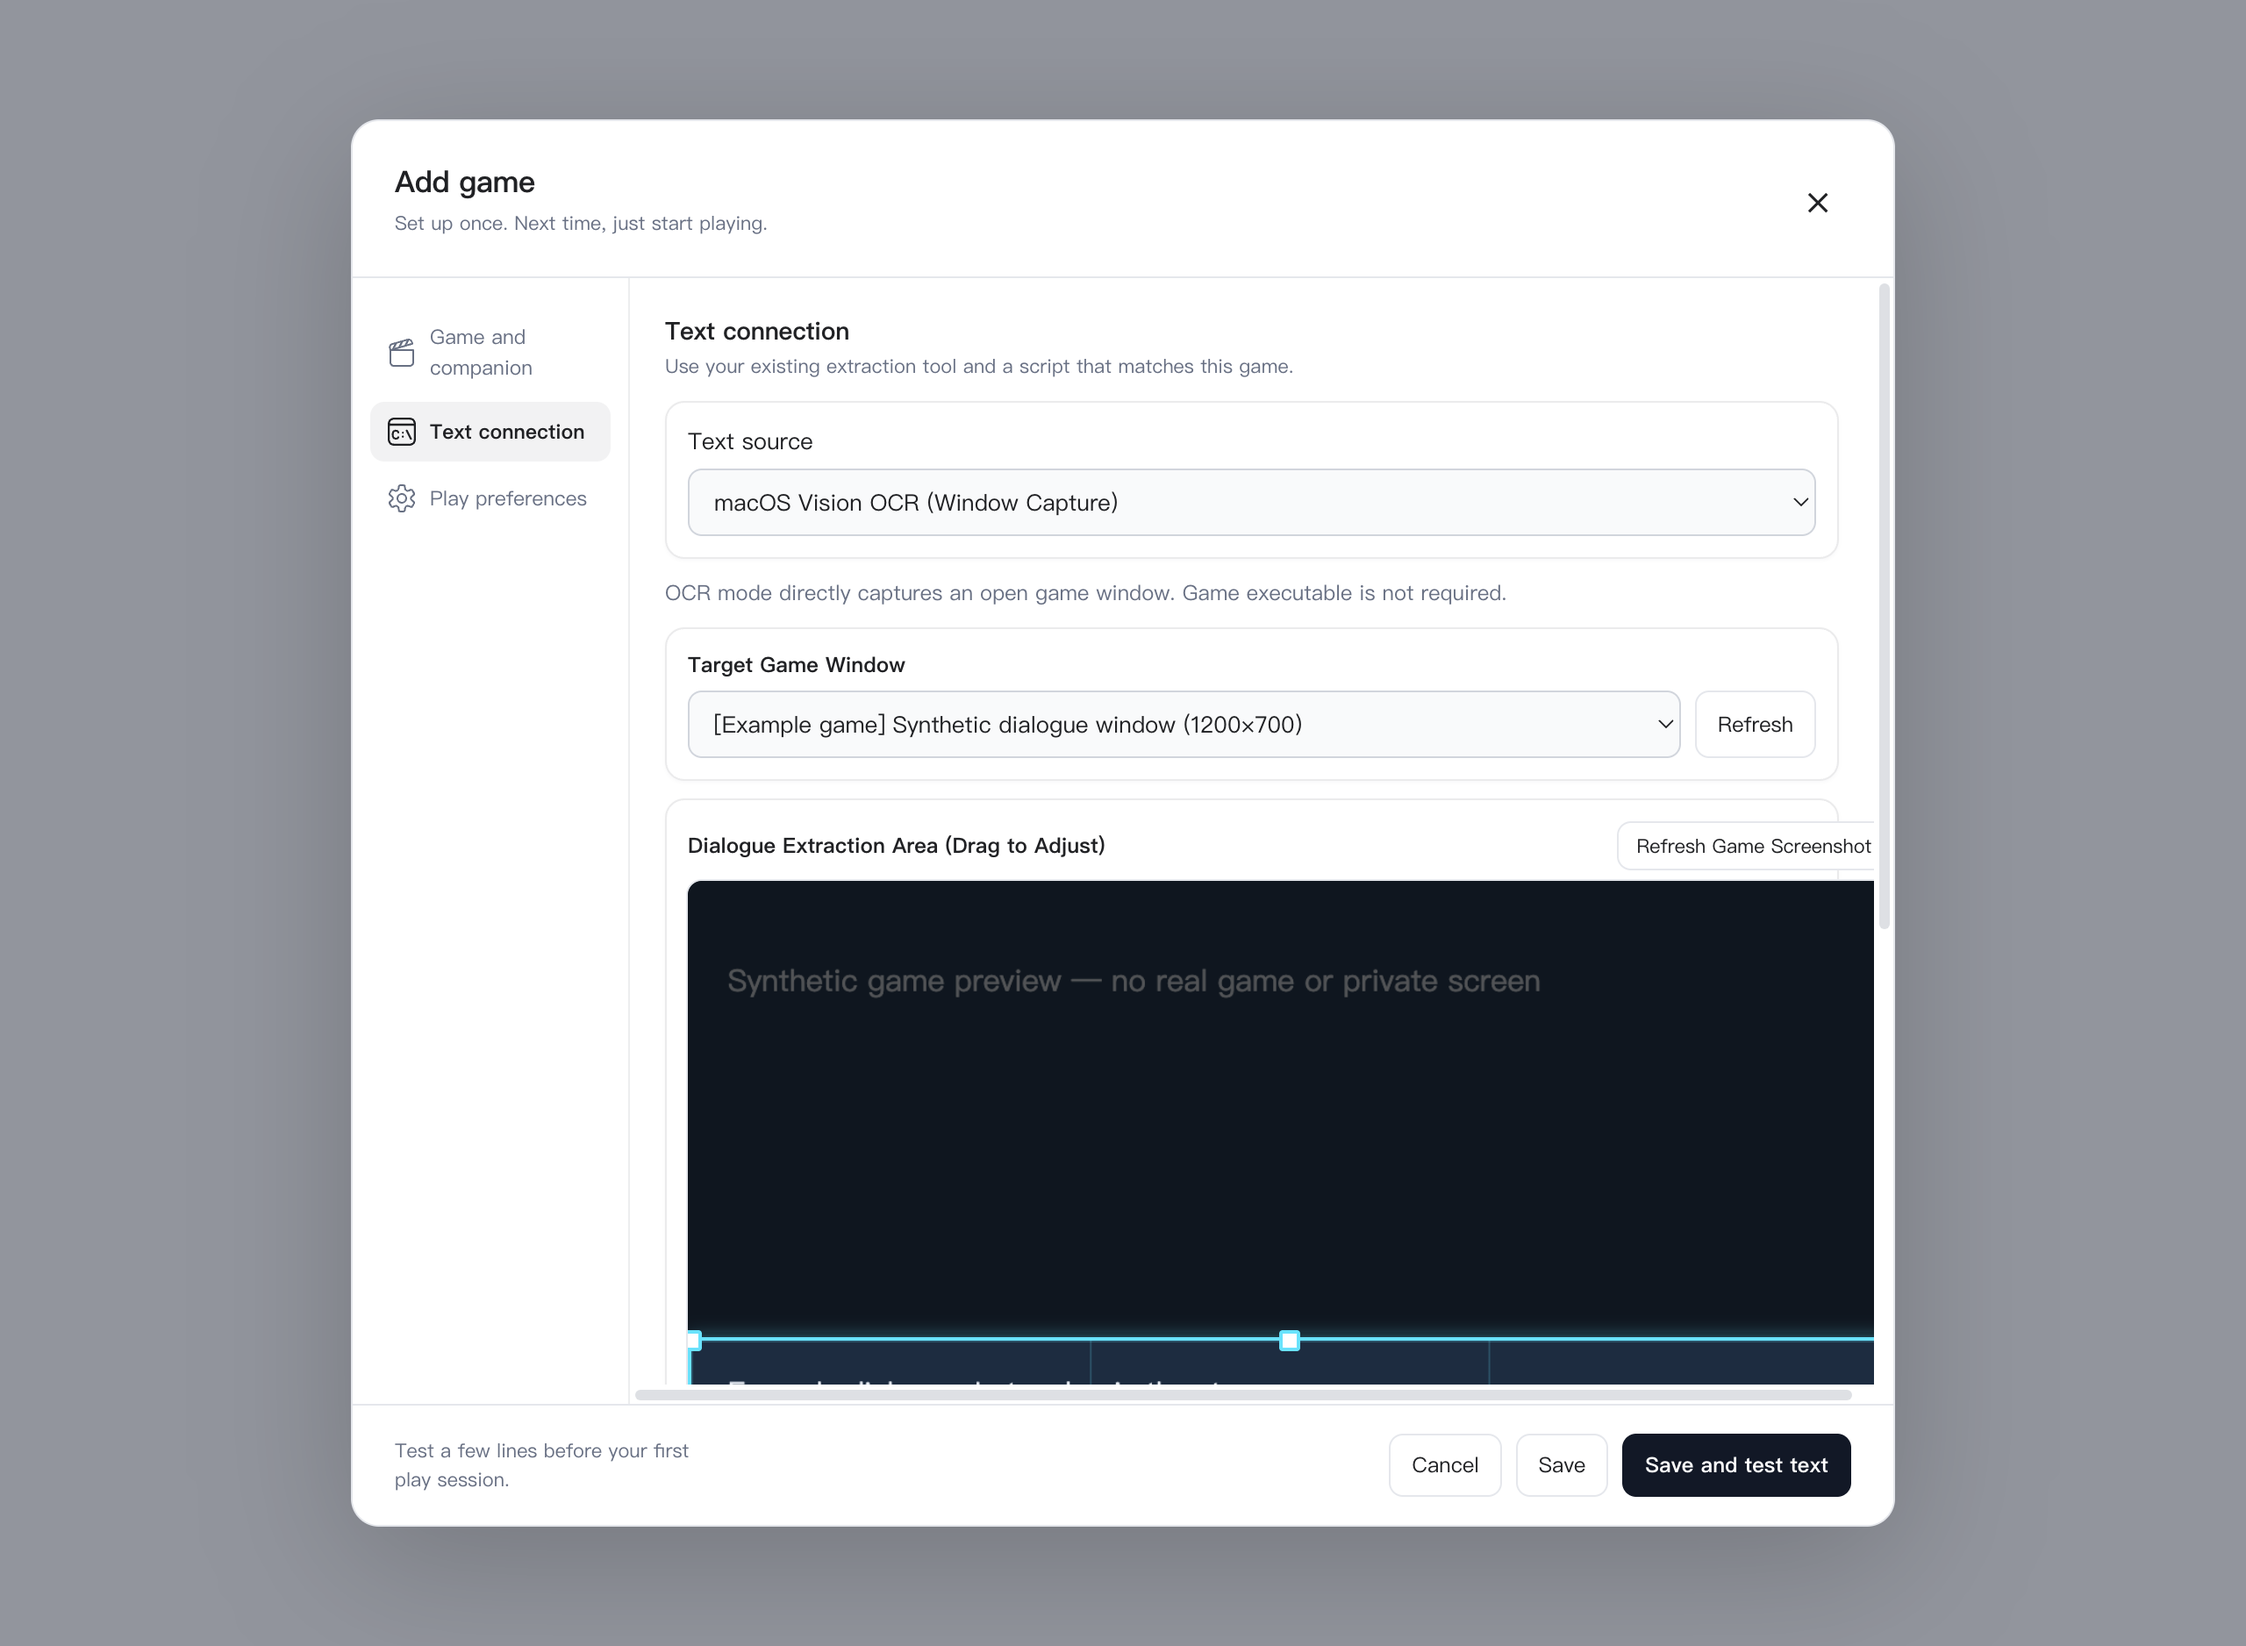
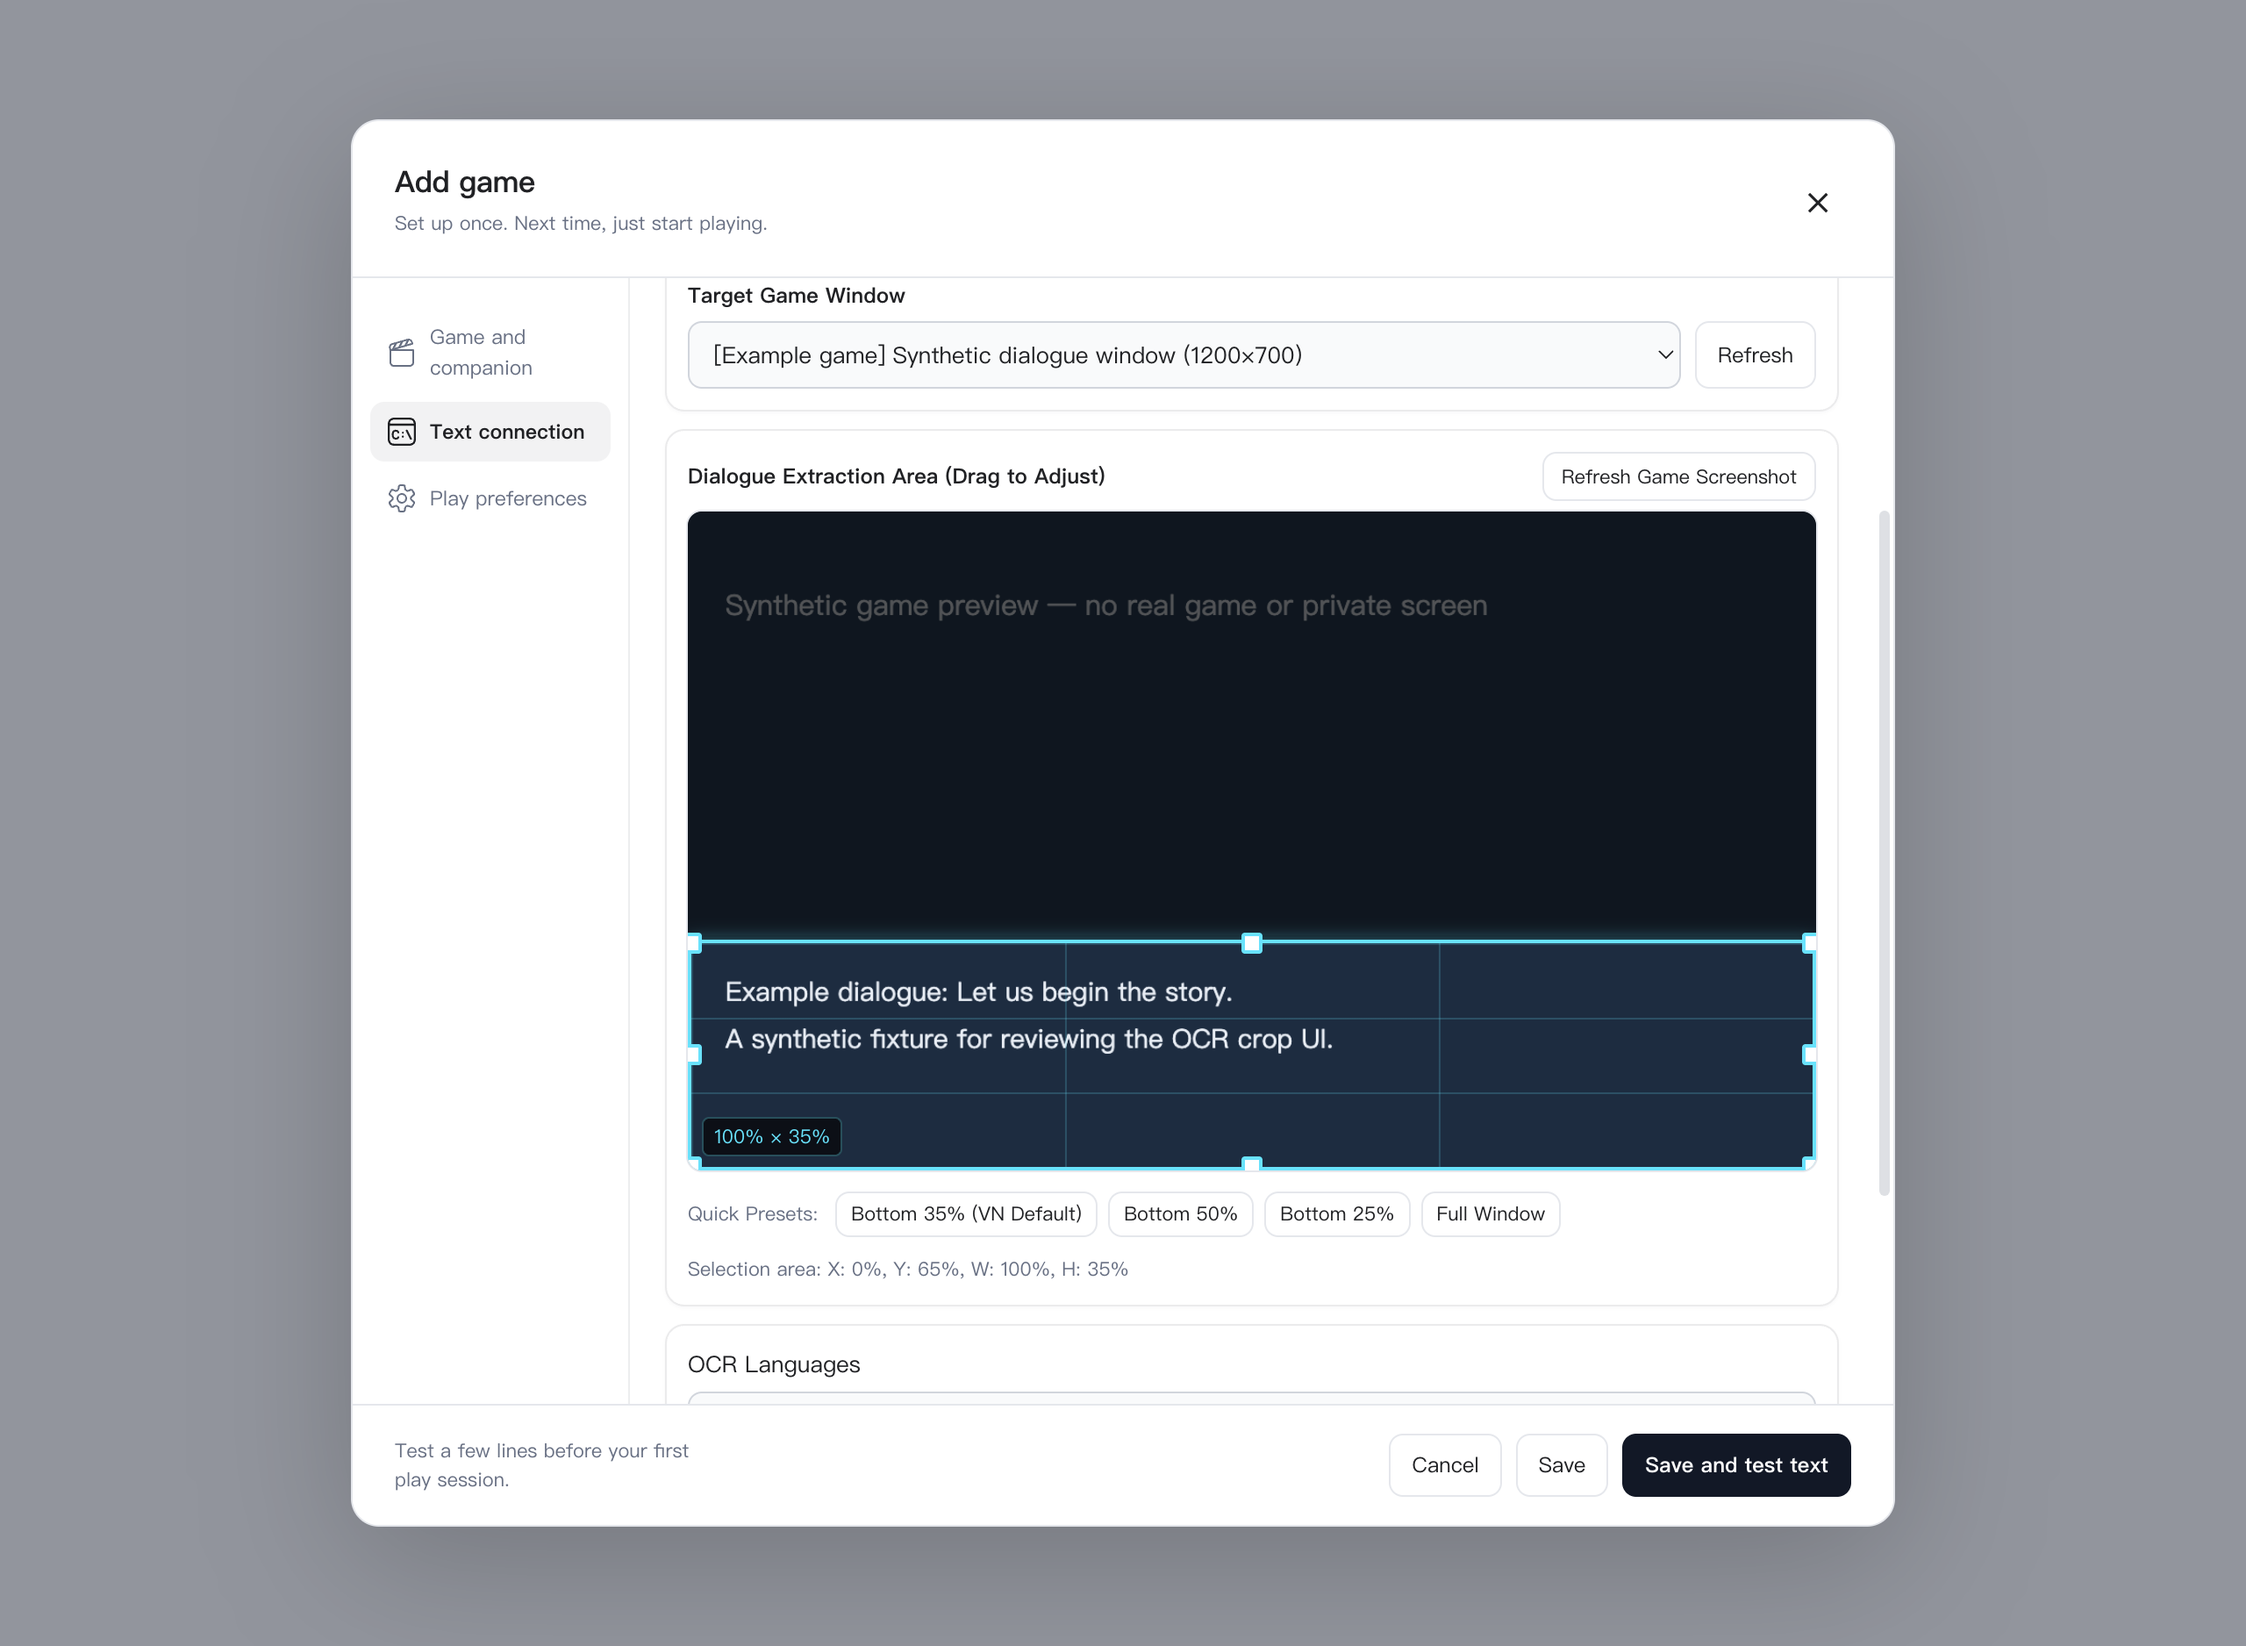
fix(vn): keep OCR preview within editor and isolate worker tests

Changed region(s): [[0.2812, 0.1546, 0.8438, 0.8657]]

diff --git a/electron/src/renderer/components/VNCropOverlay.tsx b/electron/src/renderer/components/VNCropOverlay.tsx
@@ -113,8 +113,8 @@ export default function VNCropOverlay({ imageSrc, crop, onChange, disabled }: Pr
       onPointerCancel={handlePointerUp}
       style={{
         position: 'relative',
-        width: imageSize ? `${400 * imageSize.width / imageSize.height}px` : '100%',
-        maxWidth: '100%',
+        width: '100%',
+        maxWidth: imageSize ? `${400 * imageSize.width / imageSize.height}px` : '100%',
         minWidth: 0,
         marginInline: 'auto',
         overflow: 'hidden',

diff --git a/tests/test_vn_window_capture.py b/tests/test_vn_window_capture.py
@@ -6,6 +6,7 @@ import sys
 
 import numpy as np
 import pytest
+import psutil
 
 from server import window_capture
 
@@ -119,7 +120,7 @@ def test_timed_out_capture_cleans_up_its_worker_tree(monkeypatch):
     process.communicate.side_effect = [window_capture.subprocess.TimeoutExpired("capture", 8), (b"", b"")]
     monkeypatch.setattr(window_capture.subprocess, "Popen", Mock(return_value=process))
     child = Mock()
-    monkeypatch.setattr("psutil.Process", Mock(return_value=Mock(children=Mock(return_value=[child]))))
+    monkeypatch.setattr(psutil, "Process", Mock(return_value=Mock(children=Mock(return_value=[child]))))
     with pytest.raises(RuntimeError, match="timed out"):
         window_capture.capture_window_frame(123)
     child.kill.assert_called_once()
